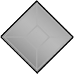
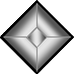
grapple changes and energy token change

diff --git a/FrogKnightCode/Cards/GrappleBlock.cs b/FrogKnightCode/Cards/GrappleBlock.cs
@@ -15,10 +15,9 @@ public class GrappleBlock() : FrogKnightCard(1,
     TargetType.AllEnemies)
 {
     public override string CustomPortraitPath => "res://FrogKnight/images/card_portraits/grappleblock.png";
-    protected override IEnumerable<DynamicVar> CanonicalVars => new DynamicVar[3]
+    protected override IEnumerable<DynamicVar> CanonicalVars => new DynamicVar[2]
     {
         new BlockVar(3m, ValueProp.Move),
-        new PowerVar<ConstrictPower>(1),
         new PowerVar<WeakPower>(1)
     };
     

diff --git a/FrogKnightCode/Cards/Grapple.cs b/FrogKnightCode/Cards/Grapple.cs
@@ -15,10 +15,9 @@ public class Grapple() : FrogKnightCard(2,
     TargetType.AnyEnemy)
 {
     public override string CustomPortraitPath => "res://FrogKnight/images/card_portraits/grapple.png";
-    protected override IEnumerable<DynamicVar> CanonicalVars => new DynamicVar[3]
+    protected override IEnumerable<DynamicVar> CanonicalVars => new DynamicVar[2]
     {
         new DamageVar(8,ValueProp.Move),
-        new PowerVar<ConstrictPower>(3),
         new PowerVar<WeakPower>(3)
     };
     

diff --git a/FrogKnightCode/Cards/GrappleandRestrain.cs b/FrogKnightCode/Cards/GrappleandRestrain.cs
@@ -16,10 +16,9 @@ public class GrappleandRestrain() : FrogKnightCard(1,
     TargetType.AllEnemies)
 {
     public override string CustomPortraitPath => "res://FrogKnight/images/card_portraits/grestrain.png";
-    protected override IEnumerable<DynamicVar> CanonicalVars => new DynamicVar[3]
+    protected override IEnumerable<DynamicVar> CanonicalVars => new DynamicVar[2]
     {
         new CardsVar(1),
-        new PowerVar<ConstrictPower>(1),
         new PowerVar<WeakPower>(1)
     };
     
